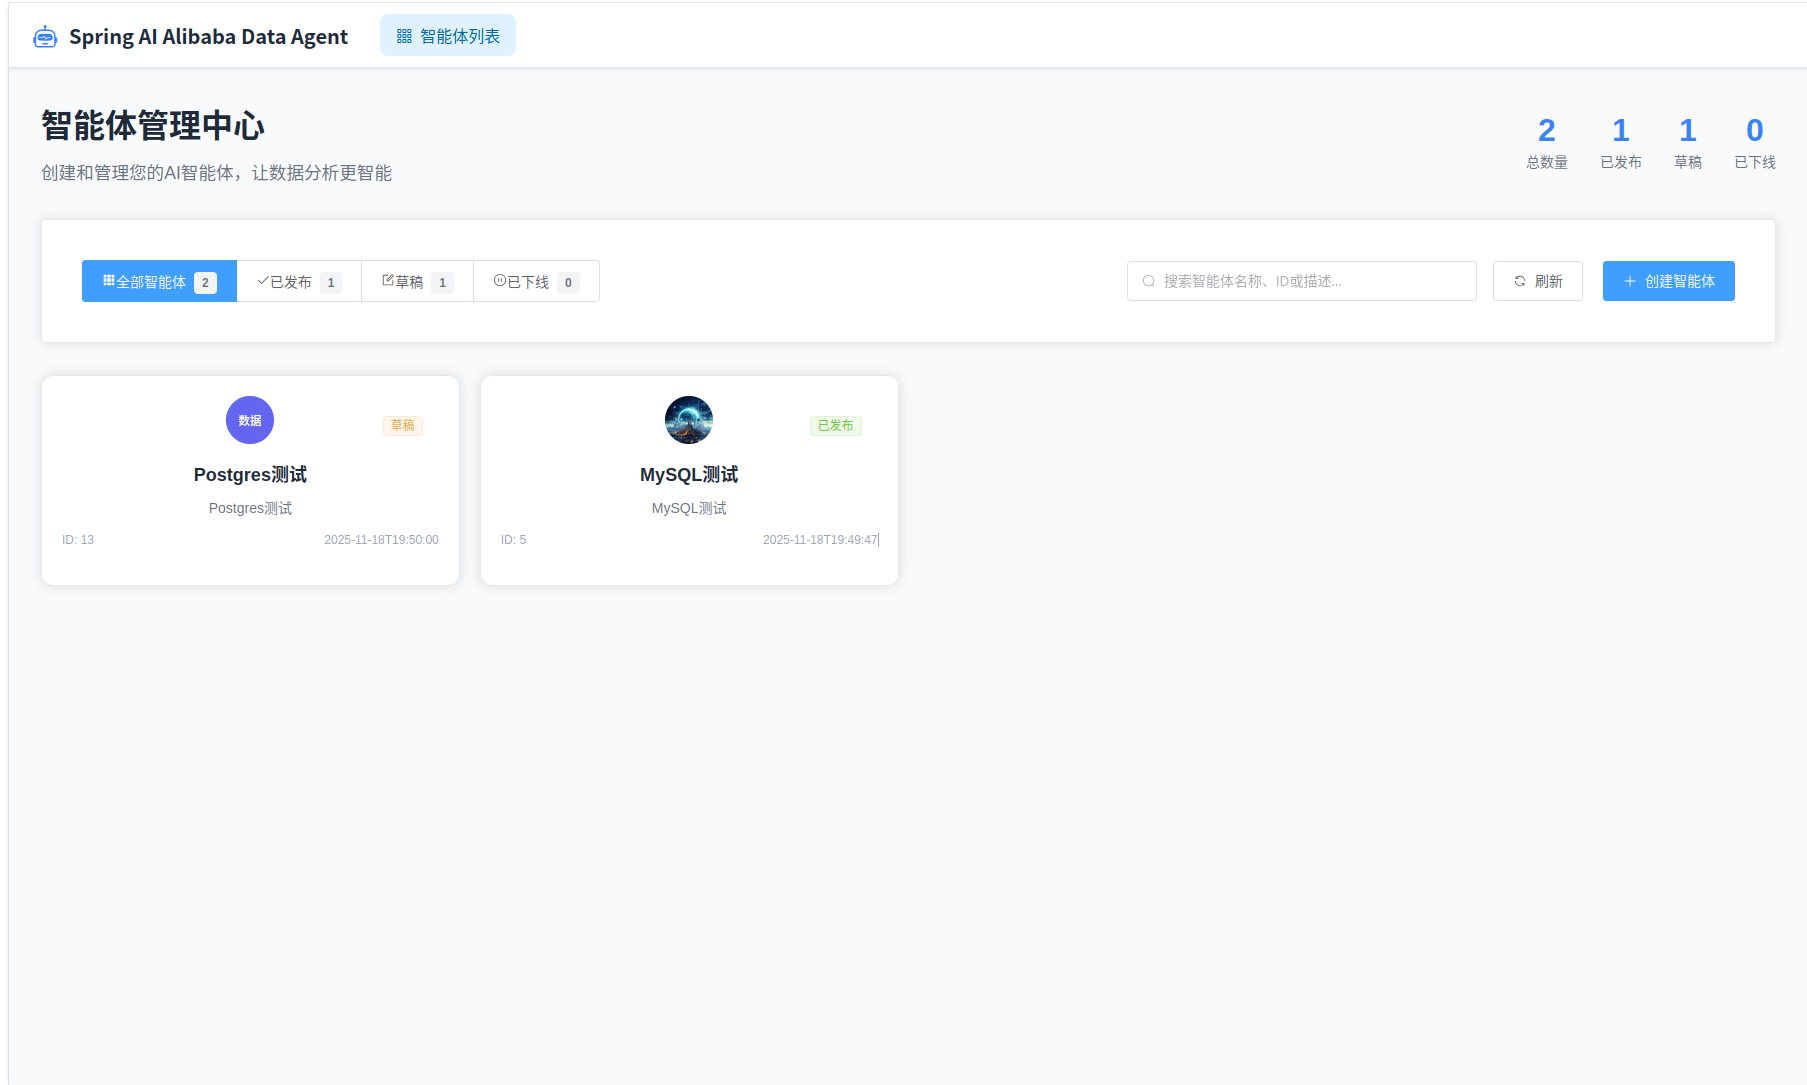
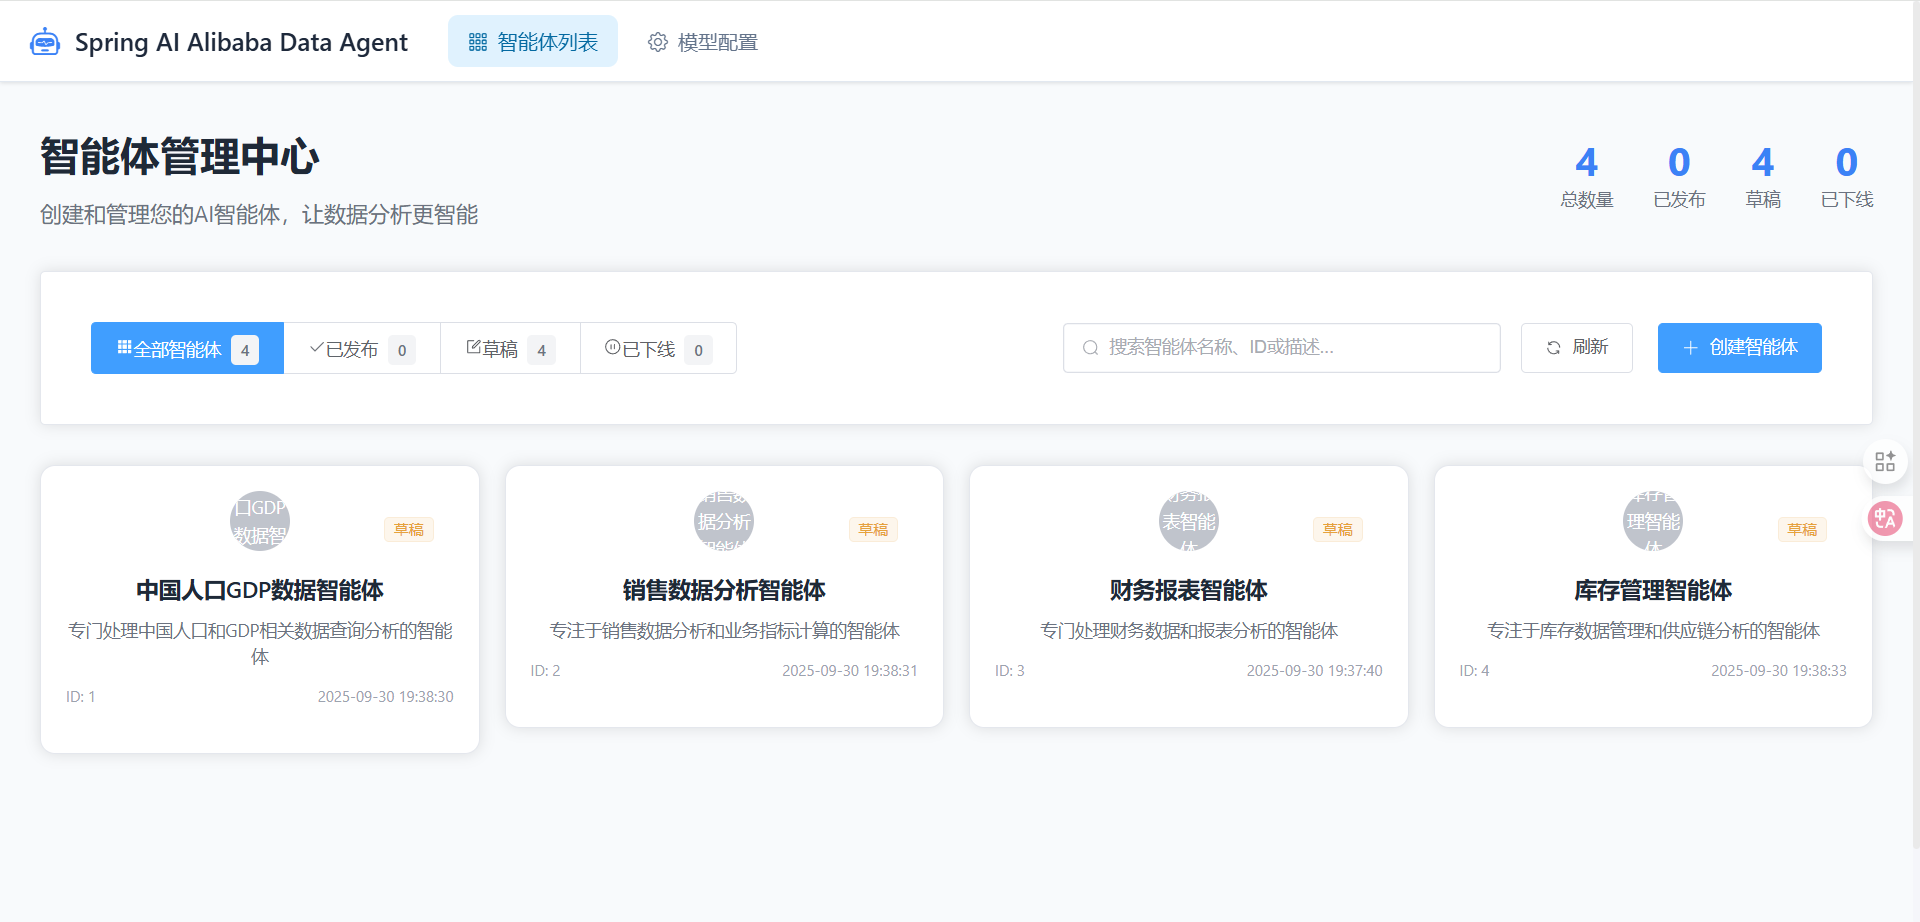
update README.md for switching model add limit for updating model config

diff --git a/spring-ai-alibaba-data-agent-management/src/main/java/com/alibaba/cloud/ai/dataagent/service/aimodelconfig/ModelConfigDataServiceImpl.java b/spring-ai-alibaba-data-agent-management/src/main/java/com/alibaba/cloud/ai/dataagent/service/aimodelconfig/ModelConfigDataServiceImpl.java
@@ -97,6 +97,10 @@ public class ModelConfigDataServiceImpl implements ModelConfigDataService {
 			throw new RuntimeException("配置不存在");
 		}
 
+		// 不准更改模型类型
+		if (!entity.getModelType().getCode().equals(dto.getModelType()))
+			throw new RuntimeException("模型类型不允许修改");
+
 		// 2. 合并字段
 		mergeDtoToEntity(dto, entity);
 		entity.setUpdatedTime(LocalDateTime.now());

diff --git a/README.md b/README.md
@@ -4,7 +4,7 @@
 
 ## 项目简介
 
-这是一个基于Spring AI Alibaba的自然语言转SQL项目，能让你用自然语言直接查询数据库，不需要写复杂的SQL。
+这是一个基于Spring AI Alibaba Graph的企业级智能数据分析 Agent。它不仅是 Text-to-SQL 转换器，更是一个具备支持 Python 深度分析与报告生成的 AI 虚拟数据分析师。
 
 ## 项目结构
 
@@ -13,8 +13,7 @@
 ```
 spring-ai-alibaba-data-agent/
 ├── spring-ai-alibaba-data-agent-management    # 管理端（可直接启动的Web应用）
-├── spring-ai-alibaba-data-agent-chat         # 核心功能（不能独立启动，供集成使用）
-└── spring-ai-alibaba-data-agent-common       # 公共代码
+└── spring-ai-alibaba-data-agent-frontend>     # 前端代码 
 ```
 
 ## 快速启动
@@ -73,24 +72,19 @@ spring:
 
 注意：默认开启时（`mode: always`），`data.sql` 会在每次启动回填示例数据（即使你手动删除了数据）。生产环境请改为 `mode: never`，避免覆盖/复原业务数据。
 
-#### 2.3 配置 API Key
+#### 2.3 配置模型
 
-```yaml
-spring:
-  ai:
-    dashscope:
-      api-key: ${AI_DASHSCOPE_API_KEY}
-      chat:
-        enabled: true
-        options:
-          model: qwen-plus
-      embedding:
-        enabled: true
-        options:
-          model: text-embedding-v4
-```
+**注意，如果你之前是自己用starter引入的聊天模型和嵌入模型的pom依赖，需要自己去掉，也不能自己手动初始化ChatClient和ChatModel以及EmbeddingModel了。**
 
-推荐将API Key配置到环境变量中，并使用`${AI_DASHSCOPE_API_KEY}`引用。
+启动项目，点击模型配置，新增模型填写自己的apikey即可。
+
+
+
+![add-model.png](img/add-model.png)
+
+注意，如Qwen，OpenAi,Deepseek,Siliconflow(硅基流动) 等兼容Open Ai的厂商不需要更改Completions 路径和Embedding路径。
+
+如果是自己部署的模型，baseurl和completions-path就是完整的chat模型地址，向量模型同理。
 
 #### 2.4 嵌入模型批处理策略配置
 
